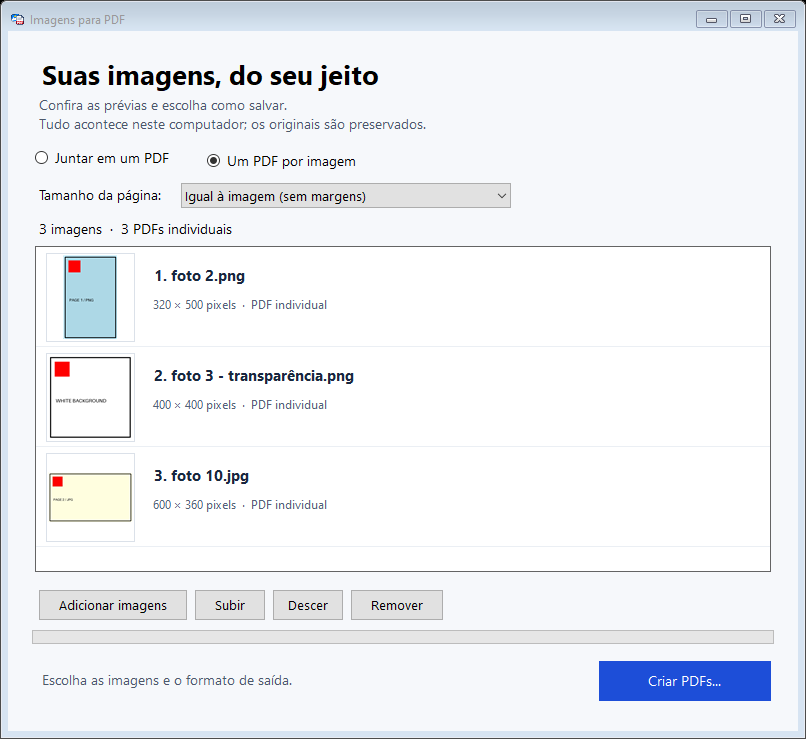
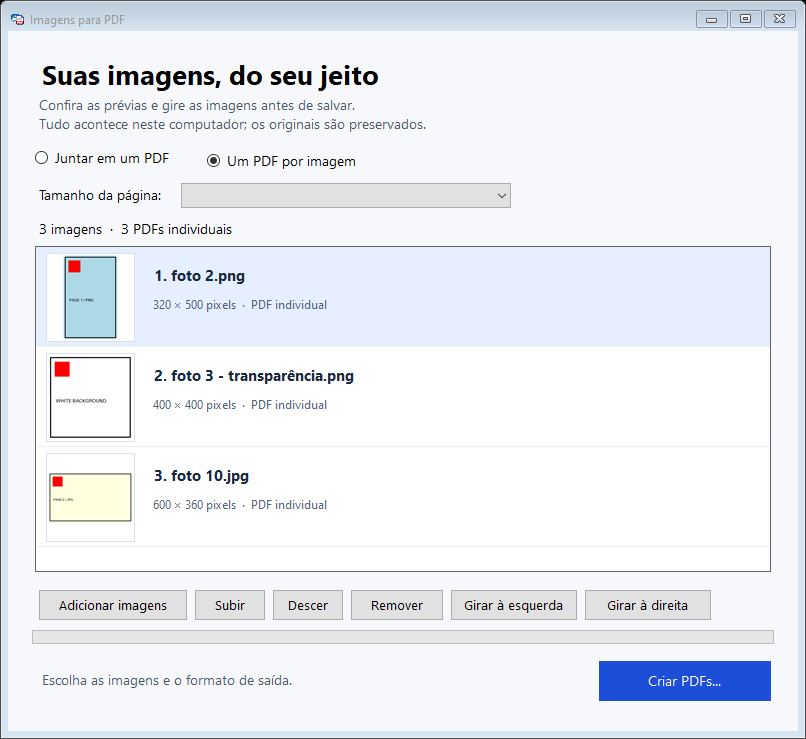
Permite girar cada imagem antes de criar o PDF

diff --git a/codigo-fonte/MainForm.cs b/codigo-fonte/MainForm.cs
@@ -36,6 +36,18 @@ namespace FotosParaPdf
             if (orientation >= 2 && orientation <= 8) image.RotateFlip(rotations[orientation]);
             return orientation;
         }
+
+        internal static int NormalizeTurns(int turns) { return (turns % 4 + 4) % 4; }
+
+        internal static void ApplyQuarterTurns(Image image, int turns)
+        {
+            switch (NormalizeTurns(turns))
+            {
+                case 1: image.RotateFlip(RotateFlipType.Rotate90FlipNone); break;
+                case 2: image.RotateFlip(RotateFlipType.Rotate180FlipNone); break;
+                case 3: image.RotateFlip(RotateFlipType.Rotate270FlipNone); break;
+            }
+        }
     }
 
     internal sealed class MainForm : Form
@@ -53,6 +65,8 @@ namespace FotosParaPdf
         private readonly SemaphoreSlim thumbnailSlots = new SemaphoreSlim(2);
         private readonly Font fileFont = new Font("Segoe UI", 11F, FontStyle.Bold);
         private readonly Font detailFont = new Font("Segoe UI", 9F);
+        private Button rotateLeft;
+        private Button rotateRight;
         private bool busy;
         private bool closing;
         private int hoverIndex = -1;
@@ -68,7 +82,7 @@ namespace FotosParaPdf
             BackColor = Color.FromArgb(246, 248, 251);
             StartPosition = FormStartPosition.CenterScreen;
             ClientSize = new Size(790, 700);
-            MinimumSize = new Size(700, 590);
+            MinimumSize = new Size(760, 590);
             AutoScaleMode = AutoScaleMode.Dpi;
             AllowDrop = true;
 
@@ -79,7 +93,7 @@ namespace FotosParaPdf
             foreach (float height in new[] { 48F, 28F, 56F }) layout.RowStyles.Add(new RowStyle(SizeType.Absolute, height));
             Controls.Add(layout);
             layout.Controls.Add(new Label { Text = "Suas imagens, do seu jeito", Font = new Font("Segoe UI", 20, FontStyle.Bold), AutoSize = true }, 0, 0);
-            layout.Controls.Add(new Label { Text = "Confira as prévias e escolha como salvar.\nTudo acontece neste computador; os originais são preservados.", Dock = DockStyle.Fill, ForeColor = Color.FromArgb(76, 88, 106) }, 0, 1);
+            layout.Controls.Add(new Label { Text = "Confira as prévias e gire as imagens antes de salvar.\nTudo acontece neste computador; os originais são preservados.", Dock = DockStyle.Fill, ForeColor = Color.FromArgb(76, 88, 106) }, 0, 1);
 
             var modePanel = new FlowLayoutPanel { Dock = DockStyle.Fill, WrapContents = false, Padding = new Padding(0, 8, 0, 0) };
             combined.Text = "Juntar em um PDF";
@@ -134,6 +148,10 @@ namespace FotosParaPdf
             AddButton(toolbar, "Subir", delegate { MovePhoto(-1); }, 72);
             AddButton(toolbar, "Descer", delegate { MovePhoto(1); }, 72);
             AddButton(toolbar, "Remover", RemovePhoto, 94);
+            rotateLeft = AddButton(toolbar, "Girar à esquerda", delegate { RotateSelected(-1); }, 128);
+            rotateRight = AddButton(toolbar, "Girar à direita", delegate { RotateSelected(1); }, 128);
+            toolTip.SetToolTip(rotateLeft, "Girar a imagem selecionada 90° para a esquerda");
+            toolTip.SetToolTip(rotateRight, "Girar a imagem selecionada 90° para a direita");
             layout.Controls.Add(toolbar, 0, 6);
             progress.Dock = DockStyle.Fill;
             progress.Margin = new Padding(0, 7, 0, 7);
@@ -178,18 +196,21 @@ namespace FotosParaPdf
             var title = new Rectangle(box.Right + 16, e.Bounds.Y + 18, Math.Max(1, e.Bounds.Width - 132), 28);
             var detail = new Rectangle(title.X, e.Bounds.Y + 50, title.Width, 24);
             TextRenderer.DrawText(e.Graphics, (e.Index + 1) + ". " + photo.Name, fileFont, title, Color.FromArgb(24, 39, 63), TextFormatFlags.EndEllipsis | TextFormatFlags.NoPrefix | TextFormatFlags.SingleLine);
-            string description = photo.Error != null ? "Não foi possível carregar a prévia" : photo.Completed ? photo.Width + " × " + photo.Height + " pixels  ·  " + (SeparateMode ? "PDF individual" : "Página " + (e.Index + 1)) : "Preparando a prévia";
+            int width = photo.QuarterTurns % 2 == 0 ? photo.Width : photo.Height;
+            int height = photo.QuarterTurns % 2 == 0 ? photo.Height : photo.Width;
+            string description = photo.Error != null ? "Não foi possível carregar a prévia" : photo.Completed ? width + " × " + height + " pixels  ·  " + (SeparateMode ? "PDF individual" : "Página " + (e.Index + 1)) + (photo.QuarterTurns == 0 ? "" : "  ·  girada") : "Preparando a prévia";
             TextRenderer.DrawText(e.Graphics, description, detailFont, detail, Color.FromArgb(83, 98, 119), TextFormatFlags.EndEllipsis | TextFormatFlags.NoPrefix | TextFormatFlags.SingleLine);
             using (var line = new Pen(Color.FromArgb(235, 239, 244))) e.Graphics.DrawLine(line, e.Bounds.Left, e.Bounds.Bottom - 1, e.Bounds.Right, e.Bounds.Bottom - 1);
             if ((e.State & DrawItemState.Focus) != 0) e.DrawFocusRectangle();
         }
 
-        private void AddButton(Control parent, string text, Action action, int width)
+        private Button AddButton(Control parent, string text, Action action, int width)
         {
             var button = new Button { Text = text, Width = width, Height = 32, BackColor = Color.White, FlatStyle = FlatStyle.System };
             button.Click += delegate { action(); };
             parent.Controls.Add(button);
             editControls.Add(button);
+            return button;
         }
 
         internal void ReceiveFiles(IEnumerable<string> paths)
@@ -200,11 +221,14 @@ namespace FotosParaPdf
                 return;
             }
             AddFiles(paths);
+            object selected = files.SelectedItem;
             var existing = files.Items.Cast<Photo>().ToDictionary(p => p.Path, StringComparer.OrdinalIgnoreCase);
             var sorted = Program.Prepare(existing.Keys);
             files.BeginUpdate();
             files.Items.Clear();
             foreach (string path in sorted) files.Items.Add(existing[path]);
+            if (selected != null) files.SelectedItem = selected;
+            else if (files.Items.Count > 0) files.SelectedIndex = 0;
             files.EndUpdate();
             UpdateCount();
             if (WindowState == FormWindowState.Minimized) WindowState = FormWindowState.Normal;
@@ -216,6 +240,7 @@ namespace FotosParaPdf
         {
             var existing = new HashSet<string>(files.Items.Cast<Photo>().Select(p => p.Path), StringComparer.OrdinalIgnoreCase);
             foreach (string path in Program.Prepare(paths)) if (existing.Add(path)) files.Items.Add(new Photo(path));
+            if (files.SelectedIndex < 0 && files.Items.Count > 0) files.SelectedIndex = 0;
             UpdateCount();
             if (Visible) StartThumbnails();
         }
@@ -234,6 +259,7 @@ namespace FotosParaPdf
                 if (closing || photo.Removed) return;
                 Preview preview = await Task.Run(() => Photo.LoadPreview(photo.Path));
                 if (closing || photo.Removed) { if (preview.Bitmap != null) preview.Bitmap.Dispose(); return; }
+                if (preview.Bitmap != null) ImageTools.ApplyQuarterTurns(preview.Bitmap, photo.QuarterTurns);
                 photo.Thumbnail = preview.Bitmap;
                 photo.Width = preview.Width;
                 photo.Height = preview.Height;
@@ -271,6 +297,18 @@ namespace FotosParaPdf
             files.Invalidate();
         }
 
+        internal void RotateSelected(int turns)
+        {
+            if (busy || files.SelectedIndex < 0) return;
+            var photo = (Photo)files.SelectedItem;
+            photo.QuarterTurns = ImageTools.NormalizeTurns(photo.QuarterTurns + turns);
+            if (photo.Thumbnail != null) ImageTools.ApplyQuarterTurns(photo.Thumbnail, turns);
+            files.Invalidate();
+            status.ForeColor = Color.FromArgb(76, 88, 106);
+            status.Text = turns < 0 ? "Imagem girada 90° à esquerda." : "Imagem girada 90° à direita.";
+            toolTip.SetToolTip(status, "A rotação será aplicada ao PDF. O arquivo original é preservado.");
+        }
+
         private void UpdateCount()
         {
             int total = files.Items.Count;
@@ -278,11 +316,14 @@ namespace FotosParaPdf
             count.Text = total == 0 ? "Adicione imagens ou arraste os arquivos para esta janela." : SeparateMode ? images + "  ·  " + total + (total == 1 ? " PDF individual" : " PDFs individuais") : images + "  ·  1 PDF com " + total + (total == 1 ? " página" : " páginas");
             create.Text = SeparateMode ? "Criar PDFs..." : "Criar PDF...";
             create.Enabled = !busy && total > 0;
+            if (rotateLeft != null) rotateLeft.Enabled = !busy && files.SelectedIndex >= 0;
+            if (rotateRight != null) rotateRight.Enabled = !busy && files.SelectedIndex >= 0;
         }
 
         private async Task CreatePdf()
         {
             string[] images = files.Items.Cast<Photo>().Select(p => p.Path).ToArray();
+            var rotations = files.Items.Cast<Photo>().ToDictionary(p => p.Path, p => p.QuarterTurns, StringComparer.OrdinalIgnoreCase);
             if (images.Length == 0) return;
             bool individual = SeparateMode;
             PageSizing sizing = pageSize.SelectedIndex == 0 ? PageSizing.Image : PageSizing.A4;
@@ -315,14 +356,14 @@ namespace FotosParaPdf
             {
                 if (individual)
                 {
-                    ConversionResult result = await Task.Run(() => Pdf.CreateSeparate(images, destination, n => ((IProgress<int>)report).Report(n), sizing));
+                    ConversionResult result = await Task.Run(() => Pdf.CreateSeparate(images, destination, n => ((IProgress<int>)report).Report(n), sizing, rotations));
                     status.Text = result.SavedFiles.Count + (result.SavedFiles.Count == 1 ? " PDF salvo" : " PDFs salvos") + (result.Errors.Count == 0 ? " na pasta escolhida." : "; " + result.Errors.Count + " imagem(ns) com erro.");
                     if (result.Errors.Count > 0) MessageBox.Show(this, status.Text + "\n\n" + String.Join("\n\n", result.Errors.Take(5)), Text, MessageBoxButtons.OK, MessageBoxIcon.Warning);
                     status.ForeColor = result.Errors.Count == 0 ? Color.FromArgb(21, 112, 66) : Color.FromArgb(164, 78, 0);
                 }
                 else
                 {
-                    await Task.Run(() => Pdf.Create(images, destination, n => ((IProgress<int>)report).Report(n), sizing));
+                    await Task.Run(() => Pdf.Create(images, destination, n => ((IProgress<int>)report).Report(n), sizing, true, rotations));
                     status.Text = "PDF salvo: " + Path.GetFileName(destination);
                     status.ForeColor = Color.FromArgb(21, 112, 66);
                 }
@@ -368,6 +409,7 @@ namespace FotosParaPdf
             internal Bitmap Thumbnail;
             internal int Width, Height;
             internal bool Requested, Completed, Removed;
+            internal int QuarterTurns;
             internal string Error;
             public string Name { get { return System.IO.Path.GetFileName(Path); } }
             internal Photo(string path) { Path = path; }

diff --git a/codigo-fonte/FotosParaPdf.cs b/codigo-fonte/FotosParaPdf.cs
@@ -19,7 +19,7 @@ using System.Windows.Forms;
 using Microsoft.Win32;
 
 [assembly: System.Reflection.AssemblyTitle("Imagens para PDF")]
-[assembly: System.Reflection.AssemblyVersion("1.3.0.0")]
+[assembly: System.Reflection.AssemblyVersion("1.4.0.0")]
 [assembly: ComVisible(false)]
 
 namespace FotosParaPdf
@@ -43,13 +43,15 @@ namespace FotosParaPdf
                 if (args.Length > 0 && args[0] == "--convert")
                 {
                     if (args.Length < 3) throw new ArgumentException("Informe o PDF de destino e as imagens.");
-                    Pdf.Create(args.Skip(2).Where(a => a != "--a4").ToArray(), args[1], null, args.Contains("--a4") ? PageSizing.A4 : PageSizing.Image);
+                    string[] images = ConversionImages(args);
+                    Pdf.Create(images, args[1], null, args.Contains("--a4") ? PageSizing.A4 : PageSizing.Image, true, ReadRotations(args, images));
                     return 0;
                 }
                 if (args.Length > 0 && args[0] == "--convert-separate")
                 {
                     if (args.Length < 3) throw new ArgumentException("Informe a pasta de destino e as imagens.");
-                    var result = Pdf.CreateSeparate(args.Skip(2).Where(a => a != "--a4").ToArray(), args[1], null, args.Contains("--a4") ? PageSizing.A4 : PageSizing.Image);
+                    string[] images = ConversionImages(args);
+                    var result = Pdf.CreateSeparate(images, args[1], null, args.Contains("--a4") ? PageSizing.A4 : PageSizing.Image, ReadRotations(args, images));
                     if (result.Errors.Count > 0) throw new IOException(String.Join(Environment.NewLine, result.Errors));
                     return 0;
                 }
@@ -62,12 +64,13 @@ namespace FotosParaPdf
                 {
                     throw new InvalidOperationException("Atualize a integração executando Instalar.cmd da versão atual.");
                 }
-                if (args.Length > 1 && (args[0] == "--snapshot" || args[0] == "--snapshot-separate"))
+                if (args.Length > 1 && (args[0] == "--snapshot" || args[0] == "--snapshot-separate" || args[0] == "--snapshot-rotated"))
                 {
                     using (var form = new MainForm(args.Skip(2)))
                     {
                         form.SeparateMode = args[0] == "--snapshot-separate";
                         form.Show();
+                        if (args[0] == "--snapshot-rotated") form.RotateSelected(1);
                         DateTime deadline = DateTime.UtcNow.AddSeconds(15);
                         do { Application.DoEvents(); Thread.Sleep(20); } while (form.PendingThumbnails > 0 && DateTime.UtcNow < deadline);
                         using (var bmp = new Bitmap(form.Width, form.Height))
@@ -97,6 +100,28 @@ namespace FotosParaPdf
         internal static bool IsImage(string path)
         {
             return Extensions.Contains(Path.GetExtension(path), StringComparer.OrdinalIgnoreCase);
+        }
+
+        private static string[] ConversionImages(string[] args)
+        {
+            return args.Skip(2).Where(a => a != "--a4" && !a.StartsWith("--rotations=", StringComparison.Ordinal)).ToArray();
+        }
+
+        private static IDictionary<string, int> ReadRotations(string[] args, string[] images)
+        {
+            string option = args.FirstOrDefault(a => a.StartsWith("--rotations=", StringComparison.Ordinal));
+            if (option == null) return null;
+            string[] angles = option.Substring("--rotations=".Length).Split(',');
+            if (angles.Length != 1 && angles.Length != images.Length) throw new ArgumentException("Informe uma rotação para todas as imagens ou uma para cada imagem.");
+            var rotations = new Dictionary<string, int>(StringComparer.OrdinalIgnoreCase);
+            for (int i = 0; i < images.Length; i++)
+            {
+                int degrees;
+                if (!Int32.TryParse(angles[angles.Length == 1 ? 0 : i], NumberStyles.Integer, CultureInfo.InvariantCulture, out degrees) || degrees % 90 != 0)
+                    throw new ArgumentException("A rotação precisa ser um múltiplo de 90 graus.");
+                rotations[Path.GetFullPath(images[i])] = ImageTools.NormalizeTurns(degrees / 90);
+            }
+            return rotations;
         }
 
         [DllImport("shlwapi.dll", CharSet = CharSet.Unicode)]
@@ -141,7 +166,7 @@ namespace FotosParaPdf
         }
         private static string Number(double n) { return n.ToString("0.####", Invariant); }
 
-        internal static ConversionResult CreateSeparate(IList<string> files, string folder, Action<int> progress, PageSizing sizing = PageSizing.Image)
+        internal static ConversionResult CreateSeparate(IList<string> files, string folder, Action<int> progress, PageSizing sizing = PageSizing.Image, IDictionary<string, int> rotations = null)
         {
             if (files.Count == 0) throw new ArgumentException("Selecione pelo menos uma imagem.");
             folder = Path.GetFullPath(folder);
@@ -161,7 +186,7 @@ namespace FotosParaPdf
                         if (File.Exists(destination) || Directory.Exists(destination)) continue;
                         try
                         {
-                            Create(new[] { files[i] }, destination, null, sizing, false);
+                            Create(new[] { files[i] }, destination, null, sizing, false, rotations);
                             result.SavedFiles.Add(destination);
                             break;
                         }
@@ -179,7 +204,7 @@ namespace FotosParaPdf
             return result;
         }
 
-        internal static void Create(IList<string> files, string destination, Action<int> progress, PageSizing sizing = PageSizing.Image, bool overwrite = true)
+        internal static void Create(IList<string> files, string destination, Action<int> progress, PageSizing sizing = PageSizing.Image, bool overwrite = true, IDictionary<string, int> rotations = null)
         {
             if (files.Count == 0) throw new ArgumentException("Selecione pelo menos uma imagem JPG ou PNG.");
             destination = Path.GetFullPath(destination);
@@ -201,7 +226,9 @@ namespace FotosParaPdf
                     pdf.Object(2, "<< /Type /Pages /Count " + files.Count + " /Kids [ " + String.Join(" ", Enumerable.Range(0, files.Count).Select(i => (3 + i * 3) + " 0 R")) + " ] >>");
                     for (int i = 0; i < files.Count; i++)
                     {
-                        try { pdf.AddPage(files[i], 3 + i * 3, sizing); }
+                        int turns = 0;
+                        if (rotations != null) rotations.TryGetValue(Path.GetFullPath(files[i]), out turns);
+                        try { pdf.AddPage(files[i], 3 + i * 3, sizing, turns); }
                         catch (Exception ex) { throw new IOException("Não foi possível ler a imagem \"" + Path.GetFileName(files[i]) + "\".\n" + ex.Message, ex); }
                         if (progress != null) progress(i + 1);
                     }
@@ -217,7 +244,7 @@ namespace FotosParaPdf
             finally { if (File.Exists(temp)) File.Delete(temp); }
         }
 
-        private void AddPage(string path, int number, PageSizing sizing)
+        private void AddPage(string path, int number, PageSizing sizing, int turns)
         {
             using (Image image = Image.FromFile(path, true))
             {
@@ -226,6 +253,9 @@ namespace FotosParaPdf
                 double dpiY = ImageTools.ValidDpi(image.VerticalResolution);
                 int orientation = ImageTools.ApplyOrientation(image);
                 if (orientation >= 5 && orientation <= 8) { double swap = dpiX; dpiX = dpiY; dpiY = swap; }
+                turns = ImageTools.NormalizeTurns(turns);
+                ImageTools.ApplyQuarterTurns(image, turns);
+                if (turns % 2 != 0) { double swap = dpiX; dpiX = dpiY; dpiY = swap; }
                 int width = image.Width, height = image.Height;
                 double pageWidth, pageHeight, w, h;
                 if (sizing == PageSizing.Image)
@@ -246,7 +276,7 @@ namespace FotosParaPdf
                 StreamObject(number + 1, "", Encoding.ASCII.GetBytes(commands));
                 byte[] bytes;
                 string filter;
-                if (!isPng && orientation == 1 && JpegComponents(path) == 3)
+                if (!isPng && orientation == 1 && turns == 0 && JpegComponents(path) == 3)
                 {
                     bytes = File.ReadAllBytes(path);
                     filter = "/DCTDecode";
@@ -367,7 +397,7 @@ namespace FotosParaPdf
             using (RegistryKey key = Registry.CurrentUser.CreateSubKey(@"Software\Microsoft\Windows\CurrentVersion\Uninstall\FotosParaPdf"))
             {
                 key.SetValue("DisplayName", "Imagens para PDF");
-                key.SetValue("DisplayVersion", "1.3.0");
+                key.SetValue("DisplayVersion", "1.4.0");
                 key.SetValue("DisplayIcon", "\"" + target + "\",0");
                 key.SetValue("Publisher", "Fotos para PDF (aplicativo local)");
                 key.SetValue("UninstallString", "\"" + target + "\" --uninstall");

diff --git a/README.md b/README.md
@@ -16,6 +16,7 @@ Selecione imagens JPG e PNG no Windows e escolha entre reunir tudo em um PDF ou 
 
 - Conversão de JPG, JPEG e PNG para PDF.
 - Prévias das imagens na lista, com nome e dimensões.
+- Botões para girar a imagem selecionada 90° à esquerda ou à direita.
 - Um PDF único com várias páginas ou um PDF individual por imagem.
 - Ordem inicial pelo nome, com ajuste pelos botões Subir e Descer.
 - Página no tamanho da imagem, sem margens, ou A4 sem recortar.
@@ -31,11 +32,13 @@ Selecione imagens JPG e PNG no Windows e escolha entre reunir tudo em um PDF ou 
 2. Extraia o ZIP e execute `Instalar.cmd`.
 3. Selecione uma ou várias fotos JPG/PNG e clique com o botão direito.
 4. Escolha **Criar PDF com as imagens**. No Windows 11, a opção fica dentro de **Mostrar mais opções**.
-5. Confira as prévias e escolha **Juntar em um PDF** ou **Um PDF por imagem**.
+5. Confira as prévias. Selecione uma imagem para usar **Girar à esquerda** ou **Girar à direita**. Escolha **Juntar em um PDF** ou **Um PDF por imagem**.
 6. Escolha o tamanho da página: **Igual à imagem (sem margens)** ou **A4**.
 7. Clique em **Criar PDF...** ou **Criar PDFs...**. No modo individual, escolha a pasta de destino.
 
 No modo individual, o nome da imagem vira o nome do PDF. Se o destino já existir, o programa acrescenta `(2)`, `(3)` e assim por diante, preservando os arquivos anteriores. Ao terminar, a confirmação aparece na janela, sem diálogo para abrir os resultados.
+
+Cada clique em um botão de giro aplica 90° à imagem selecionada. A prévia muda na hora e a mesma rotação é aplicada ao PDF, após a orientação EXIF de fotos de celular. A rotação é mantida ao reordenar as imagens ou trocar o modo de saída. Os arquivos originais não são alterados.
 
 O programa também pode ser aberto diretamente pelo executável. A instalação é feita apenas para o usuário atual, em `%LOCALAPPDATA%\FotosParaPdf`.
 
@@ -78,14 +81,14 @@ A integração do menu chama o executável diretamente. Invocações simultânea
 - Novas seleções são adicionadas à janela aberta; confira os itens antes de salvar.
 - HEIC e WebP não são aceitos nesta versão.
 
-## Validação da versão 1.3
+## Validação da versão 1.4
 
-Foram verificados os modos único e individual, nomes repetidos sem sobrescrita, falha parcial com imagem inválida, páginas no tamanho da imagem sem margens, tamanho físico em 300 DPI, A4, orientação EXIF, transparência, JPG em escala de cinza e CMYK e preservação dos originais. O agrupamento de invocações simultâneas foi verificado. As prévias e as páginas renderizadas foram inspecionadas visualmente.
+Foram verificados giros de 90°, 180° e 270°, inversão entre os botões, volta completa, giro durante o carregamento da prévia, preservação da rotação ao reordenar ou adicionar imagens e combinação com EXIF. A orientação dos pixels nos PDFs único e individual foi conferida. Também foram verificados os recursos anteriores, incluindo colisões de nomes, falha parcial, DPI, A4, transparência e preservação dos originais. As prévias e páginas renderizadas foram inspecionadas visualmente.
 
 A conversão foi validada programaticamente. O fluxo pelo menu do Explorador precisa ser verificado no Windows de destino.
 
 ## Versão atual
 
-O pacote instalável da versão **1.3.0** inclui o executável, o ícone e os comandos para instalar e desinstalar a integração. O executável mantém o nome `FotosParaPdf.exe` para compatibilidade com instalações anteriores.
+O pacote instalável da versão **1.4.0** inclui o executável, o ícone e os comandos para instalar e desinstalar a integração. O executável mantém o nome `FotosParaPdf.exe` para compatibilidade com instalações anteriores.
 
 Referências: [modelo de seleção do Shell](https://learn.microsoft.com/en-us/windows/win32/shell/how-to-employ-the-verb-selection-model) e [pipe local do .NET](https://learn.microsoft.com/en-us/dotnet/api/system.io.pipes.namedpipeserverstream).

diff --git a/docs/RELEASE.md b/docs/RELEASE.md
@@ -1,18 +1,20 @@
-Prévias das imagens e mais controle sobre os PDFs gerados.
+Gire suas imagens antes de criar o PDF.
 
-### Novidades da versão 1.3.0
+### Novidades da versão 1.4.0
 
-- **Miniaturas das imagens** na lista, com nome e dimensões.
-- **Um PDF por imagem**: por exemplo, três imagens geram três PDFs separados.
-- **Juntar em um PDF** continua disponível, com ajuste da ordem das páginas.
-- **Página no tamanho da imagem**, sem margens, como padrão. A4 continua como alternativa.
-- **Sem pergunta para abrir o arquivo** após salvar: a confirmação aparece na própria janela.
-- Nomes repetidos recebem `(2)`, `(3)` etc., sem sobrescrever PDFs existentes no modo individual.
+- **Girar à esquerda** e **Girar à direita**: cada clique gira a imagem selecionada 90°.
+- A prévia muda na hora e o PDF recebe a mesma rotação.
+- Funciona nos modos de PDF único e de um PDF por imagem.
+- A rotação é mantida ao reordenar, adicionar imagens ou trocar as opções de saída.
+- O tamanho da página acompanha a orientação final da imagem.
+- Os arquivos originais são preservados.
+
+Continuam disponíveis as miniaturas, PDFs individuais, páginas no tamanho da imagem ou A4 e salvamento sem pergunta para abrir o resultado.
 
 ### Instalar ou atualizar
 
 1. Feche a janela do programa, se estiver aberta.
-2. Baixe **Fotos-para-PDF-v1.3.zip** em Assets e extraia o ZIP inteiro.
+2. Baixe **Fotos-para-PDF-v1.4.zip** em Assets e extraia o ZIP inteiro.
 3. Execute **Instalar.cmd** novamente para atualizar.
 4. Selecione as fotos e escolha **Criar PDF com as imagens** no botão direito. No Windows 11, abra **Mostrar mais opções**.
 
